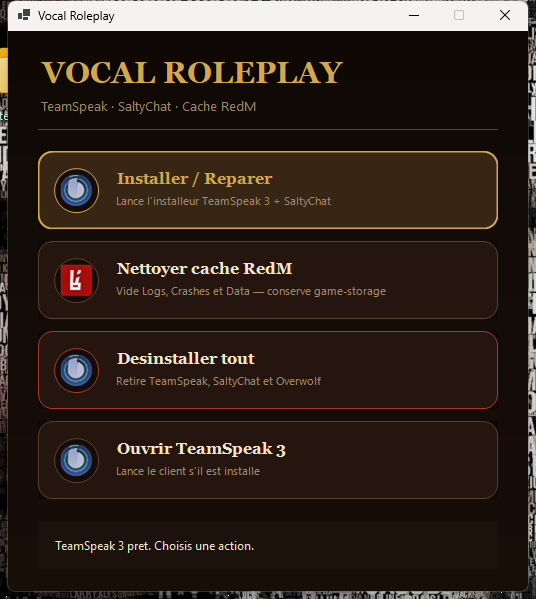
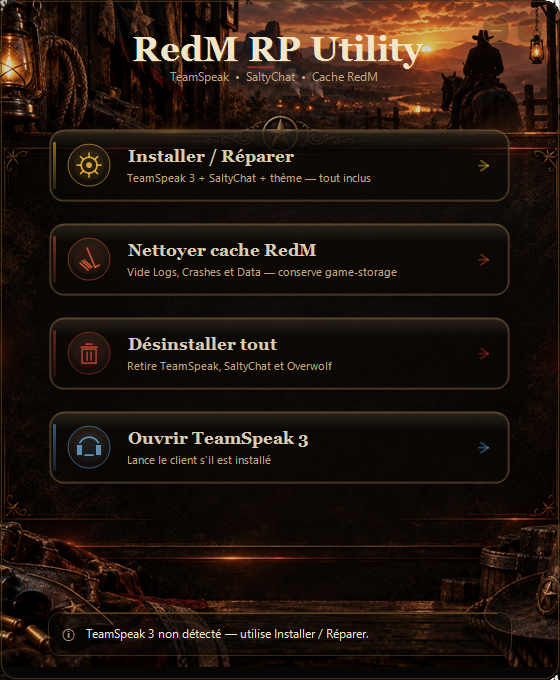
Use correct RedM RP Utility UI screenshot in README.

diff --git a/README.md b/README.md
@@ -1,7 +1,7 @@
 # RedM RP Utility
 
 <p align="center">
-  <img src="assets/preview-background.png" alt="RedM RP Utility" width="900"/>
+  <img src="assets/hub-preview.png" alt="RedM RP Utility — interface principale" width="900"/>
 </p>
 
 **Stack:** C# · .NET 8 · WinForms
@@ -41,10 +41,6 @@ En résumé : **un hub simple pour préparer le vocal RP RedM**, sans galérer a
 ---
 
 ## Captures / aperçu
-
-<p align="center">
-  <img src="assets/hub-preview.png" alt="RedM RP Utility hub" width="800"/>
-</p>
 
 <p align="center">
   <img src="assets/ts3-reddead-check.png" alt="TeamSpeak Red Dead theme" width="800"/>
